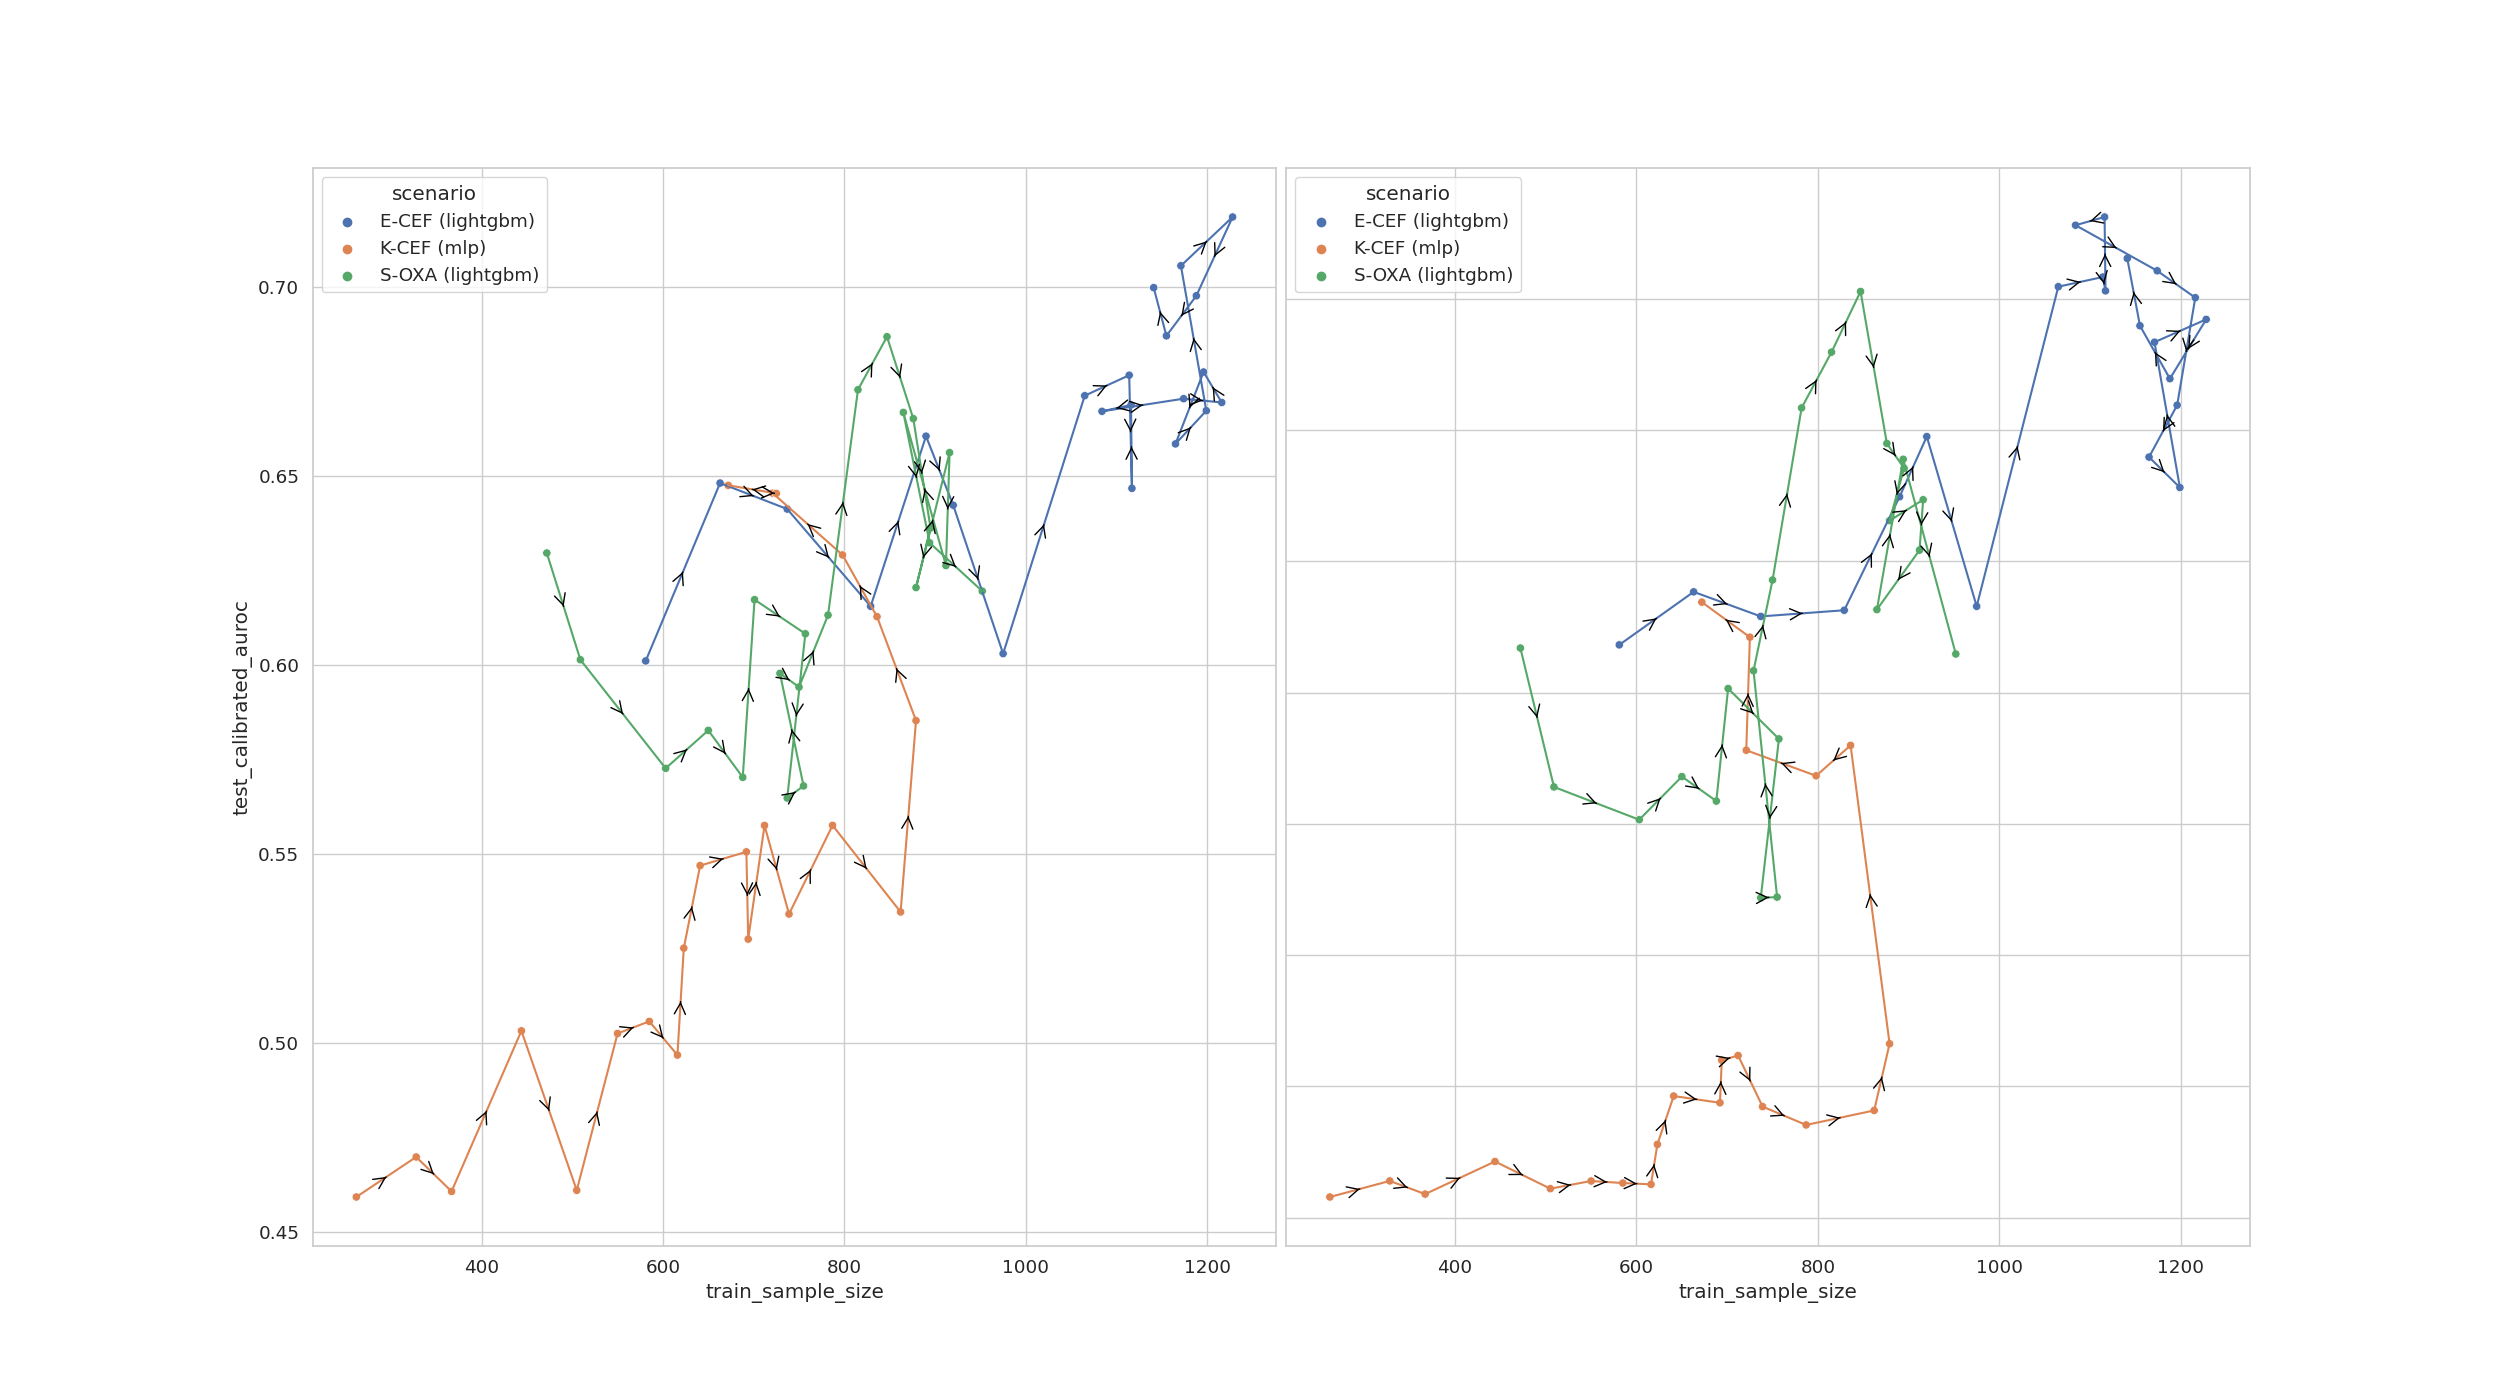
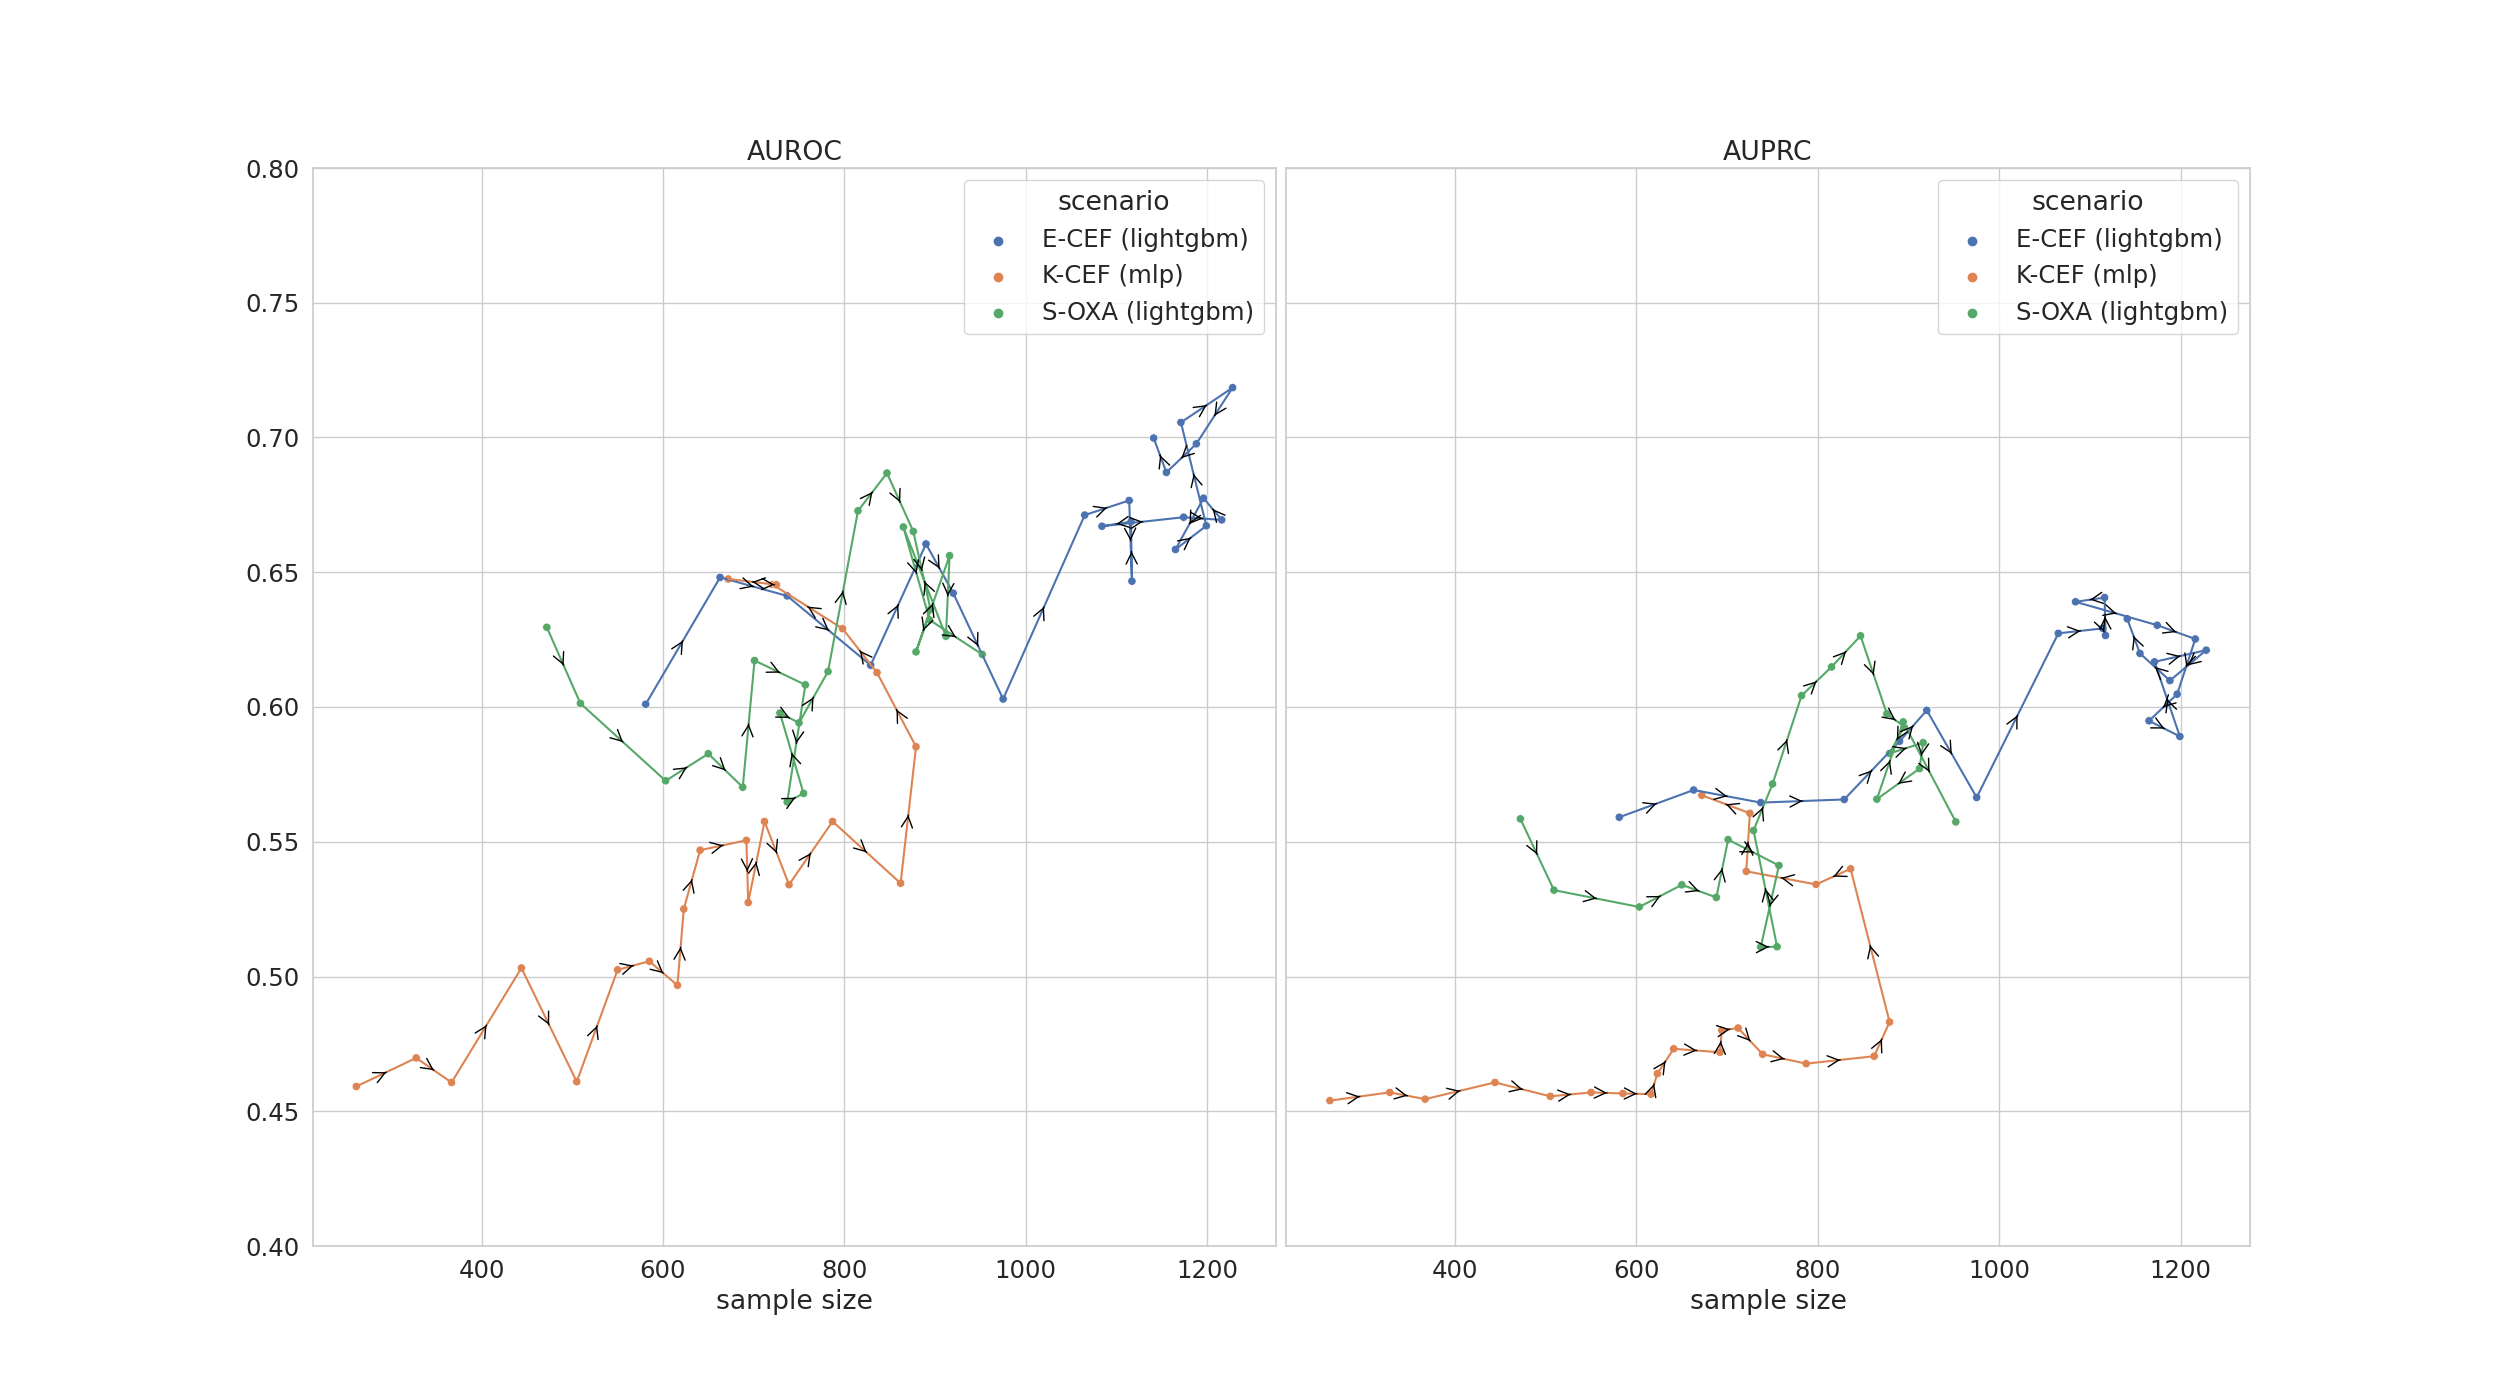
add titles and axis limits and labels

diff --git a/amr_maldi_ml/plotting/plot_sliding_window_scatterplot.py b/amr_maldi_ml/plotting/plot_sliding_window_scatterplot.py
@@ -73,7 +73,7 @@ if __name__ == '__main__':
 
     # Plot lineplot.
     plt.close('all')
-    sns.set(style="whitegrid", font_scale=1.2)
+    sns.set(style="whitegrid", font_scale=1.6)
     fig, ax = plt.subplots(1, 2, figsize=(25,14))
 
     for i, metric in enumerate(metrics):
@@ -96,23 +96,9 @@ if __name__ == '__main__':
             ax=ax[i],
             hue='scenario',
         )
-        #ax[i].set_xlabel('last month of 8-month training interval')
-        #ax[i].set_ylabel(f'{metric}'.upper())
-        #ax[i].set_xlim(
-        #    datetime.strptime('2016-08-01', '%Y-%m-%d'),
-        #    datetime.strptime('2018-05-01', '%Y-%m-%d'),
-        #    )
-        #if metric == 'auroc': ax[i].axhline(0.5, color='darkgrey', linestyle='--')
-
-        ## Minor ticks every month.
-        #fmt_month = mdates.MonthLocator(interval=1)
-        #ax[i].xaxis.set_major_locator(fmt_month)
-        #
-        ## Format dates in xticks.
-        #ax[i].xaxis.set_major_formatter(mdates.DateFormatter('%Y-%m-%d'))
-
-        #plt.xticks(rotation=45)
-
+        ax[i].set_title(metric.upper())
+        ax[i].set_xlabel('sample size')
+        ax[i].set_ylabel('')
 
         xpos = []
         ypos = []
@@ -124,7 +110,6 @@ if __name__ == '__main__':
             df__ = df_.loc[df_['scenario'] == scenario]
 
             # check that train_to is in order
-            print([idx[0] for idx in df__.index])
             x = df__['train_sample_size']
             y = df__['test_calibrated_'+metric]
 
@@ -142,6 +127,10 @@ if __name__ == '__main__':
 
         arrows = zip(xpos, ypos, xdir, ydir) 
 
+        if metric == 'auroc':
+            ax[i].set_ylim((0.4,0.8))
+        elif metric == 'auprc':
+            ax[i].set_ylim((0.0,0.4))
 
         # plot arrow on each line
         for (x, y, x_dir, y_dir) in arrows:
@@ -156,7 +145,7 @@ if __name__ == '__main__':
                             arrowstyle='->', 
                             color='black',
                         ), 
-                    size = 20,
+                    size=20,
             )
 
     # Hide x labels and tick labels for all but bottom plot.
